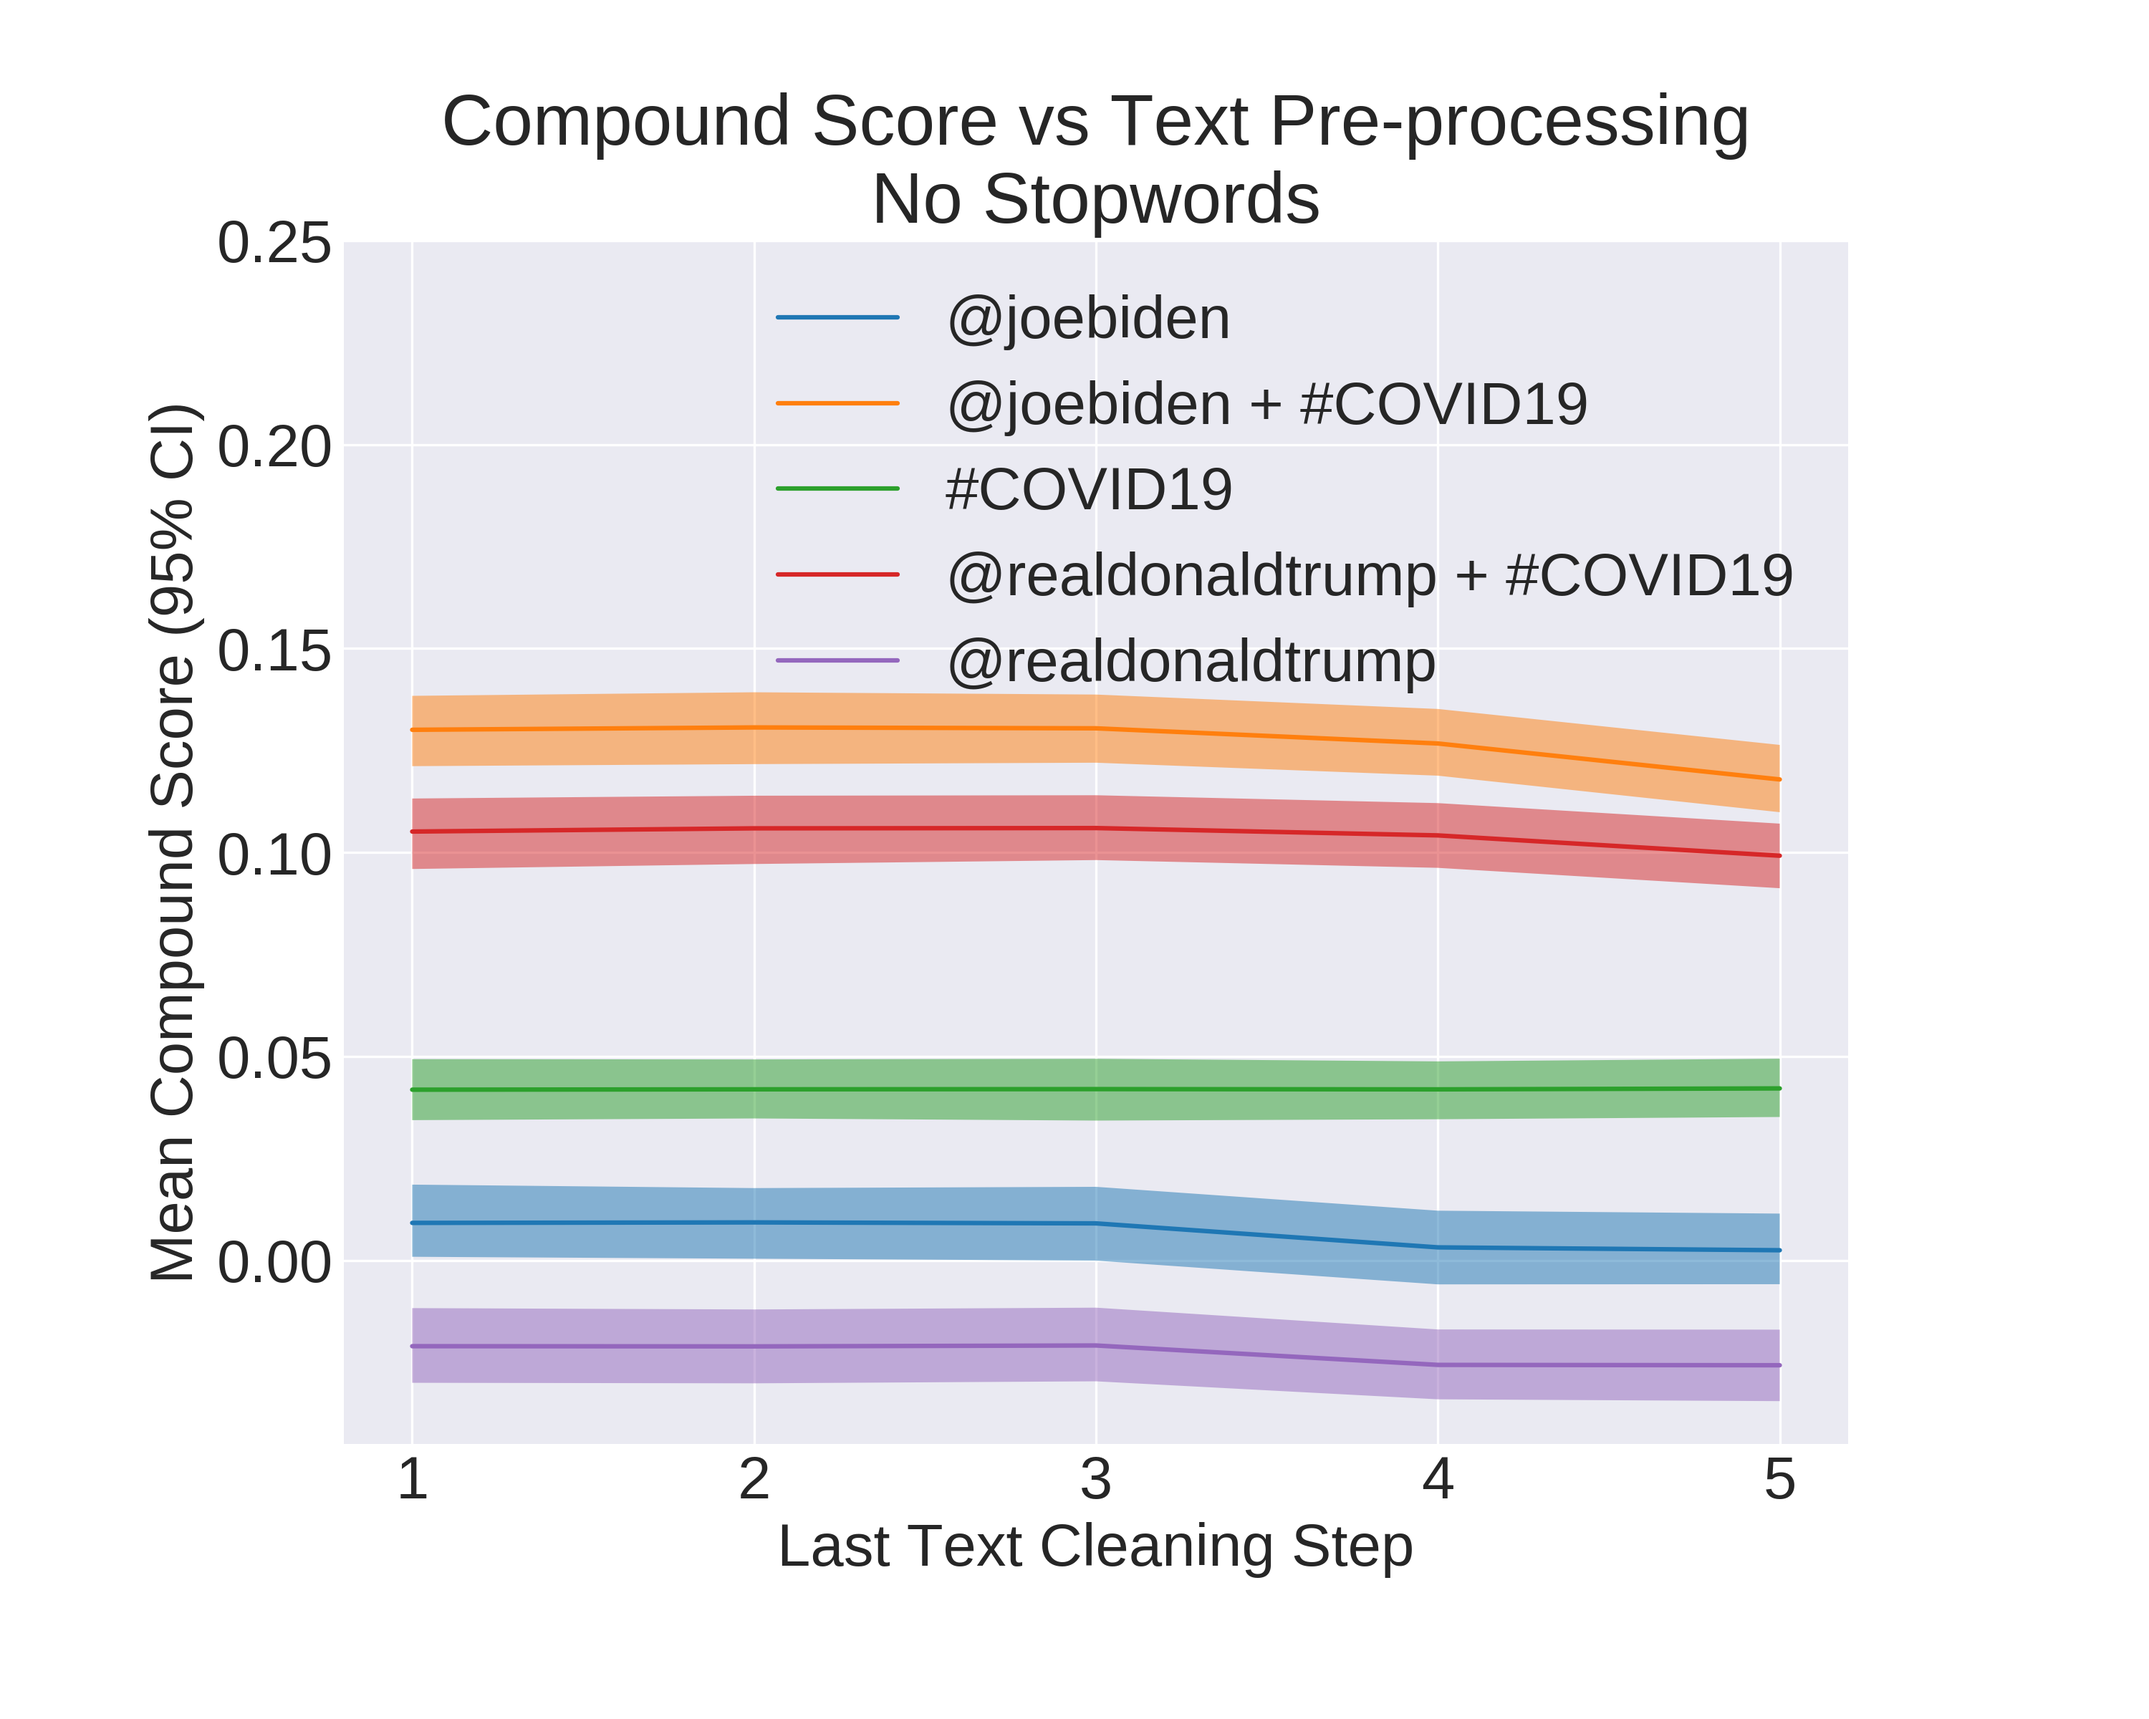
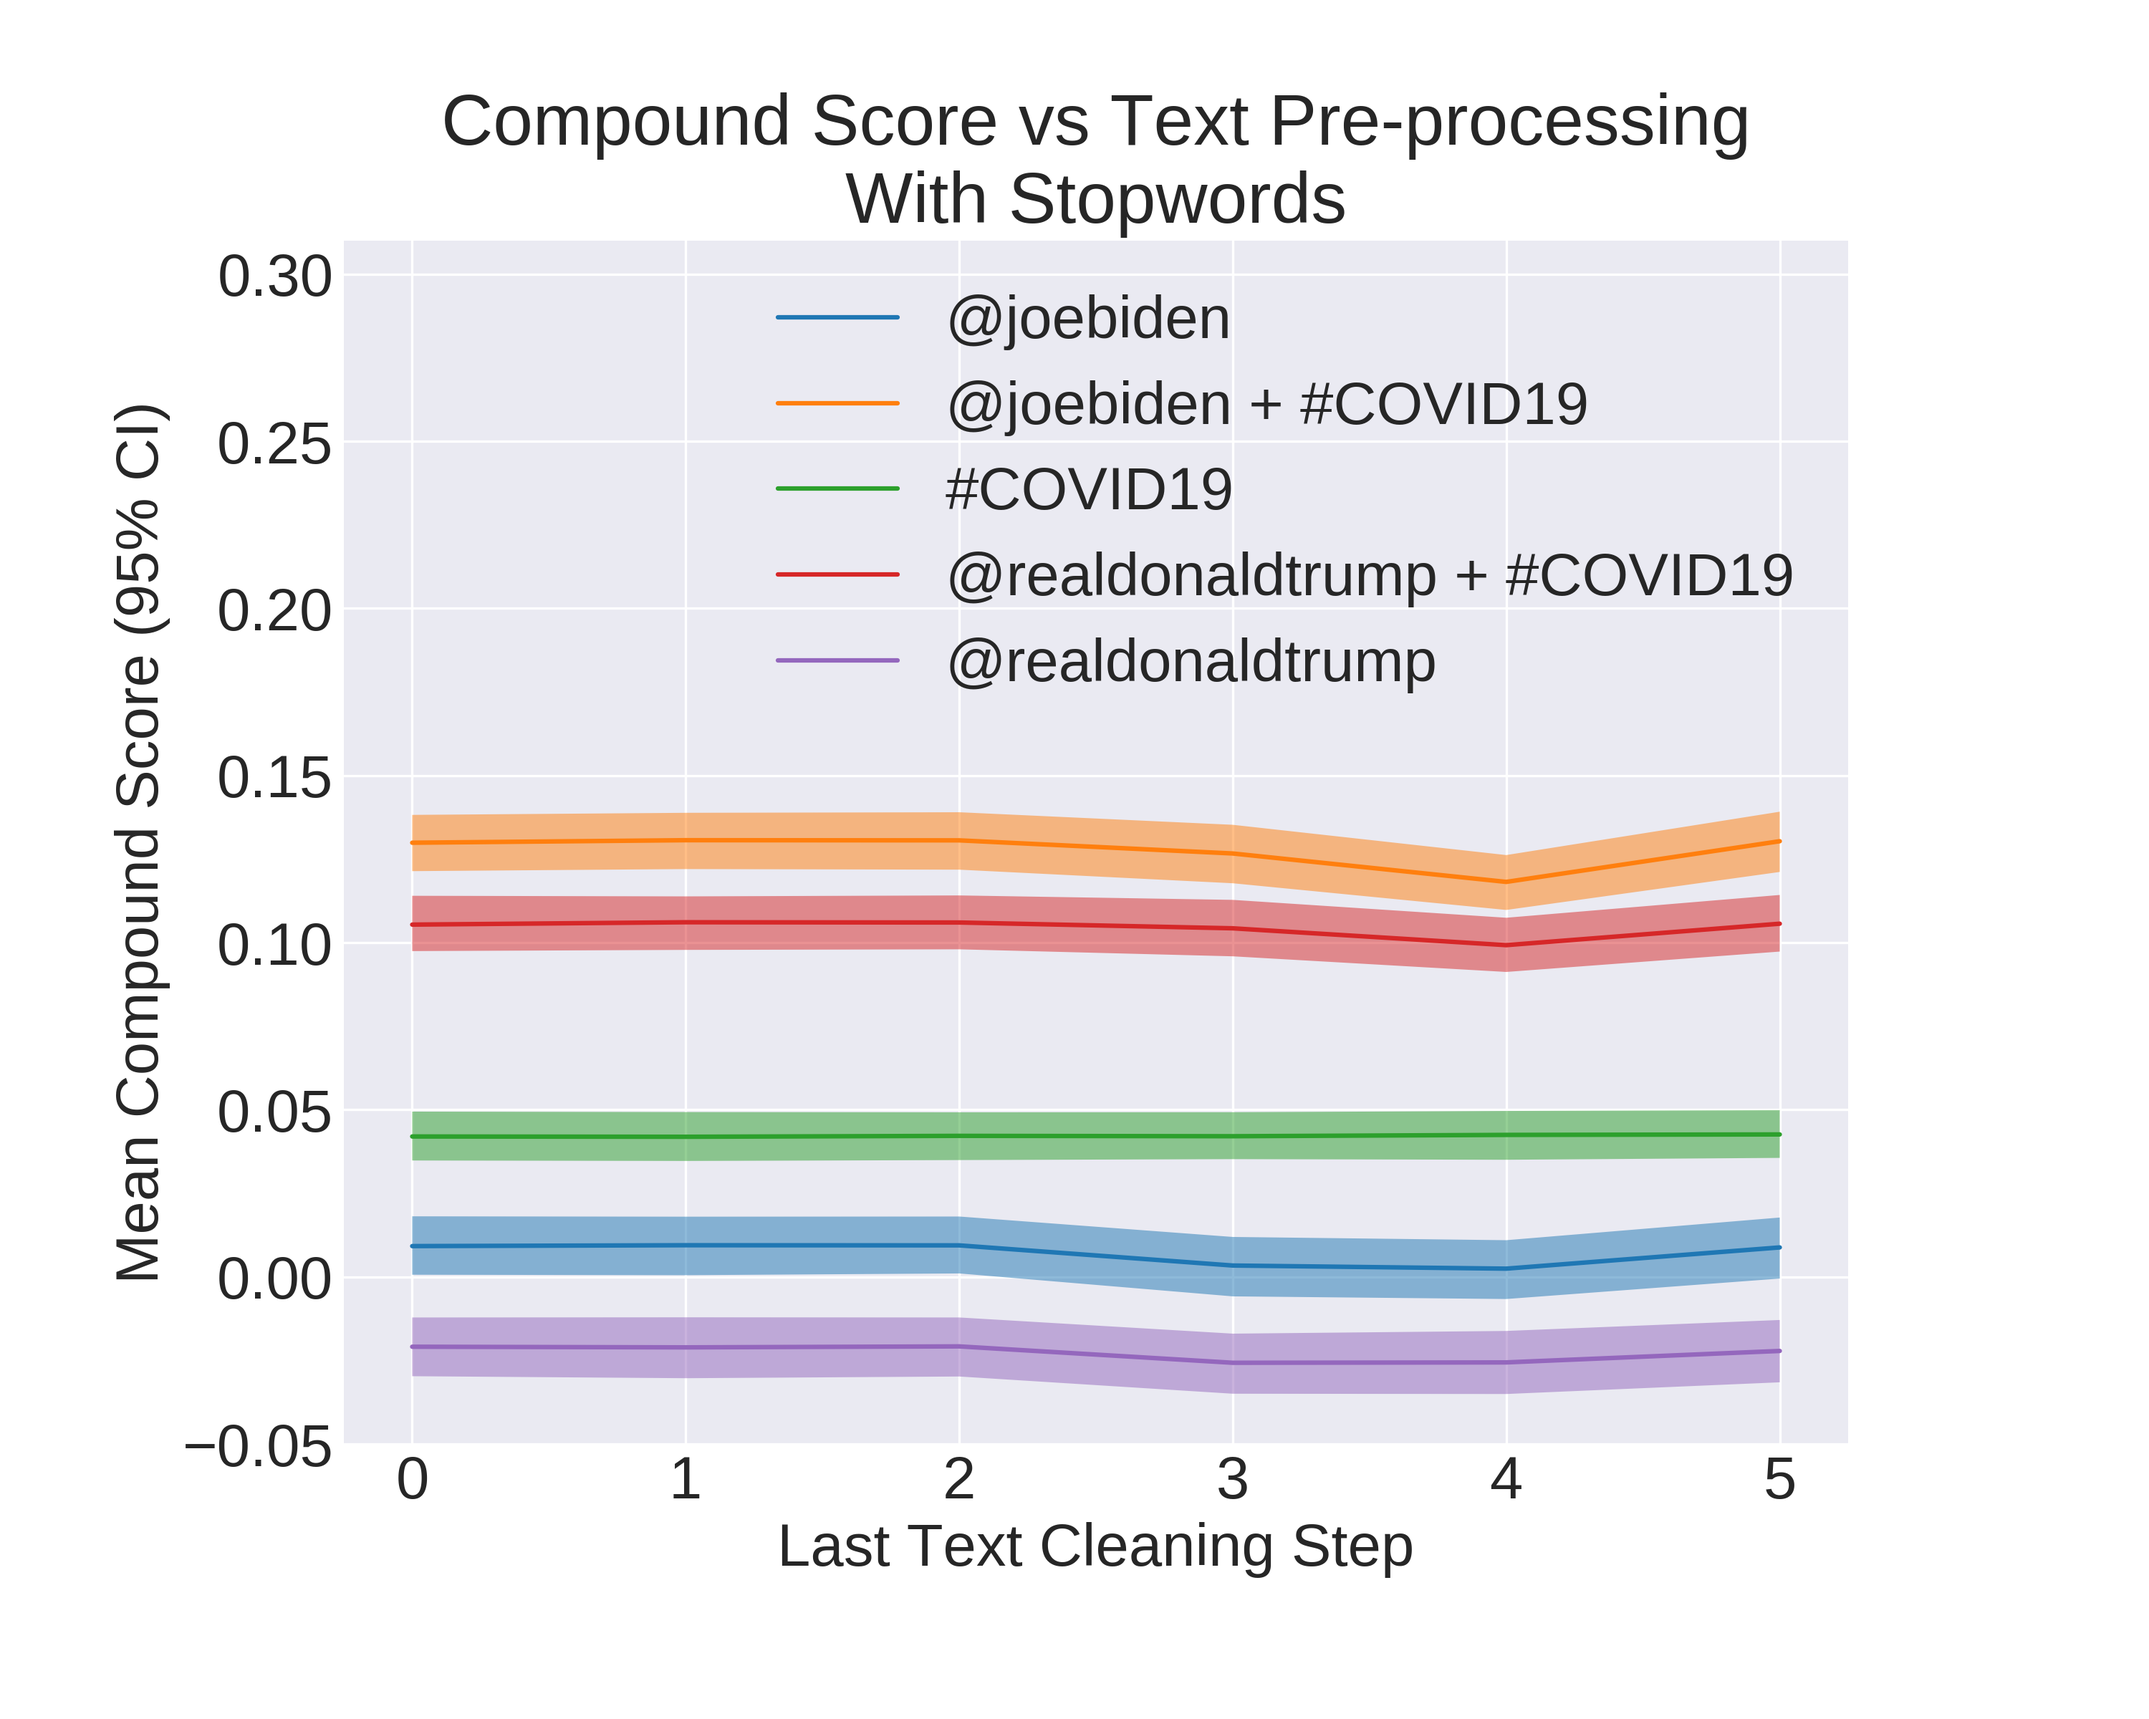
multiline plots made

diff --git a/src/TextCleaner.py b/src/TextCleaner.py
@@ -29,23 +29,31 @@ class TextCleaner():
         4. remove punctuation
         5. remove special (utf-8) characters
         '''
-
         df_tweet_text = str(df_tweet_text)
 
-        if last_clean_step == 1:
-            clean_text = df_tweet_text.lower()
+        if exclude_stopwords:
+            df_tweet_text_sw = ' '.join([word for word in df_tweet_text.split() if word not in stopwords])
+        else:
+            df_tweet_text_sw = ' '.join([word for word in df_tweet_text.split()])
+
+        
+        if last_clean_step == 0:
+            clean_text = df_tweet_text_sw
+
+        elif last_clean_step == 1:
+            clean_text = df_tweet_text_sw.lower()
 
         elif last_clean_step == 2:
-            lower = df_tweet_text.lower()
+            lower = df_tweet_text_sw.lower()
             clean_text = ' '.join([self.text_abbrevs.get(elem, elem) for elem in lower.split()])
         
         elif last_clean_step == 3:
-            lower = df_tweet_text.lower()
+            lower = df_tweet_text_sw.lower()
             without_text_abbrevs = ' '.join([self.text_abbrevs.get(elem, elem) for elem in lower.split()])
             clean_text = ' '.join([self.grammar_abbrevs.get(elem, elem) for elem in without_text_abbrevs.split()])
         
         elif last_clean_step == 4:
-            lower = df_tweet_text.lower()
+            lower = df_tweet_text_sw.lower()
             without_text_abbrevs = ' '.join([self.text_abbrevs.get(elem, elem) for elem in lower.split()])
             without_grammar_abbrevs = ' '.join([self.grammar_abbrevs.get(elem, elem) for elem in without_text_abbrevs.split()])
             
@@ -53,7 +61,7 @@ class TextCleaner():
             clean_text = re.sub(joined_re_groups,' ',without_grammar_abbrevs)
         
         elif last_clean_step == 5:
-            lower = df_tweet_text.lower()
+            lower = df_tweet_text_sw.lower()
             without_text_abbrevs = ' '.join([self.text_abbrevs.get(elem, elem) for elem in lower.split()])
             without_grammar_abbrevs = ' '.join([self.grammar_abbrevs.get(elem, elem) for elem in without_text_abbrevs.split()])
             
@@ -64,8 +72,6 @@ class TextCleaner():
         
         words_greater_than_two_char = ' '.join([word for word in clean_text.split() if len(word) >= 2])
 
-        if exclude_stopwords:
-            one_space_separated_tweet = ' '.join([word for word in words_greater_than_two_char.split() if word not in stopwords])
-        else:
-            one_space_separated_tweet = ' '.join([word for word in words_greater_than_two_char.split()])
+        one_space_separated_tweet = ' '.join([word for word in words_greater_than_two_char.split()])
+
         return one_space_separated_tweet

diff --git a/src/co_data_analysis.py b/src/co_data_analysis.py
@@ -70,14 +70,14 @@ def bootstrap(x, resamples=1000):
 
     return bootstrap_samples
 
-def make_sent_sensitivity_array (text_df, treatment, sentiment_type, num_resamples, total_cleaning_steps_list=range(1,6)):
+def make_sent_sensitivity_array (text_df, treatment, sentiment_type, num_resamples, total_cleaning_steps_list=range(1,6), exclude_stopwords=False):
     '''
     Performs iterative tweet pre-processing, scores with VADER algorithm and computed the bootstrapped sample means.
     '''
     sample_means_array = np.zeros((num_resamples, len(total_cleaning_steps_list)))
 
     for step in total_cleaning_steps_list:
-        clean_tweet_col = text_df[treatment].apply(lambda x: cleaner.clean_tweets(x,last_clean_step=step))
+        clean_tweet_col = text_df[treatment].apply(lambda x: cleaner.clean_tweets(x,last_clean_step=step,exclude_stopwords=exclude_stopwords))
         vader_df = tweet_col_to_vader_df(analyzer, clean_tweet_col)
 
         bootstrap_samples = bootstrap(vader_df[sentiment_type],resamples=1000)
@@ -173,7 +173,7 @@ if __name__ == '__main__':
     '''
     cleaner = TextCleaner()
     num_resamples = 1000
-    total_cleaning_steps = range(1,6)
+    total_cleaning_steps = range(7)
 
     # new_lst = ['#COVID19']
 
@@ -193,8 +193,8 @@ if __name__ == '__main__':
     fig, ax = plt.subplots(1,figsize=(10,8))
 
     for key, treatment in treatment_dict.items():
-        two_dim_array = make_sent_sensitivity_array(colorado_df, treatment, vader_param, num_resamples, total_cleaning_steps)
-        make_ci_lineplot(ax, treatment,two_dim_array,(-0.045,0.25), total_cleaning_steps, 'Mean Compound Score (95% CI)',title=f'Compound Score vs Text Pre-processing\nNo Stopwords')
+        two_dim_array = make_sent_sensitivity_array(colorado_df, treatment, vader_param, num_resamples, total_cleaning_steps, exclude_stopwords=False)
+        make_ci_lineplot(ax, treatment,two_dim_array,(-0.05,0.31), total_cleaning_steps, 'Mean Compound Score (95% CI)',title=f'Compound Score vs Text Pre-processing\nWith Stopwords')
     save_fig(fig, f'{state}_all_compound_shaded_line_plot.png')
     '''
     Hypothesis tests, mean and variance - Think about some kind of Bayesian test

diff --git a/src/plotting_functions.py b/src/plotting_functions.py
@@ -51,7 +51,7 @@ def make_boxplot(ax, array_of_values, y_lim, label_lst, y_label,title):
     ax.set_position([0.16, 0.16, 0.70, 0.70])
 
 def make_ci_lineplot(ax, line_name, y_data, y_lim, label_lst, y_label, title, alpha=0.05):
-    x_values = np.arange(1,6,1)
+    x_values = np.arange(0,6,1)
     y_values = np.mean(y_data, axis=0)
     upper_ci = np.percentile(y_data, 100*(1-(alpha/2)), axis=0)
     lower_ci = np.percentile(y_data, 100*(alpha/2), axis=0)
